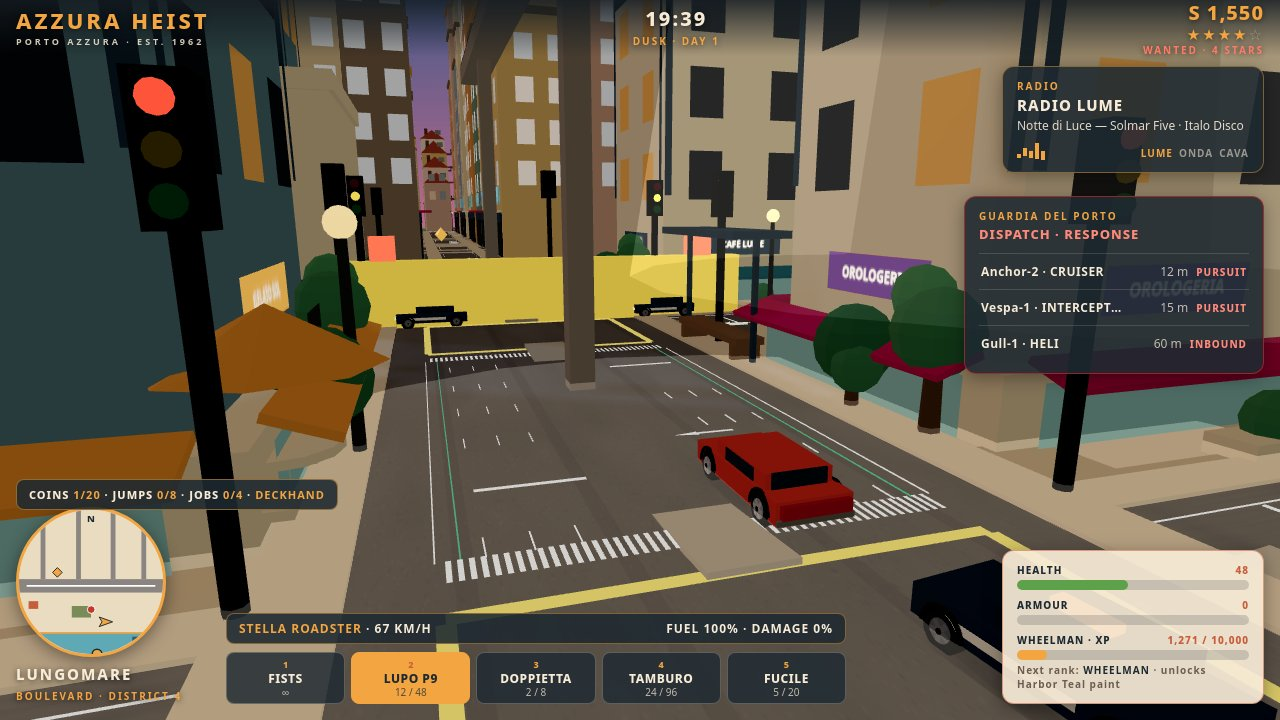
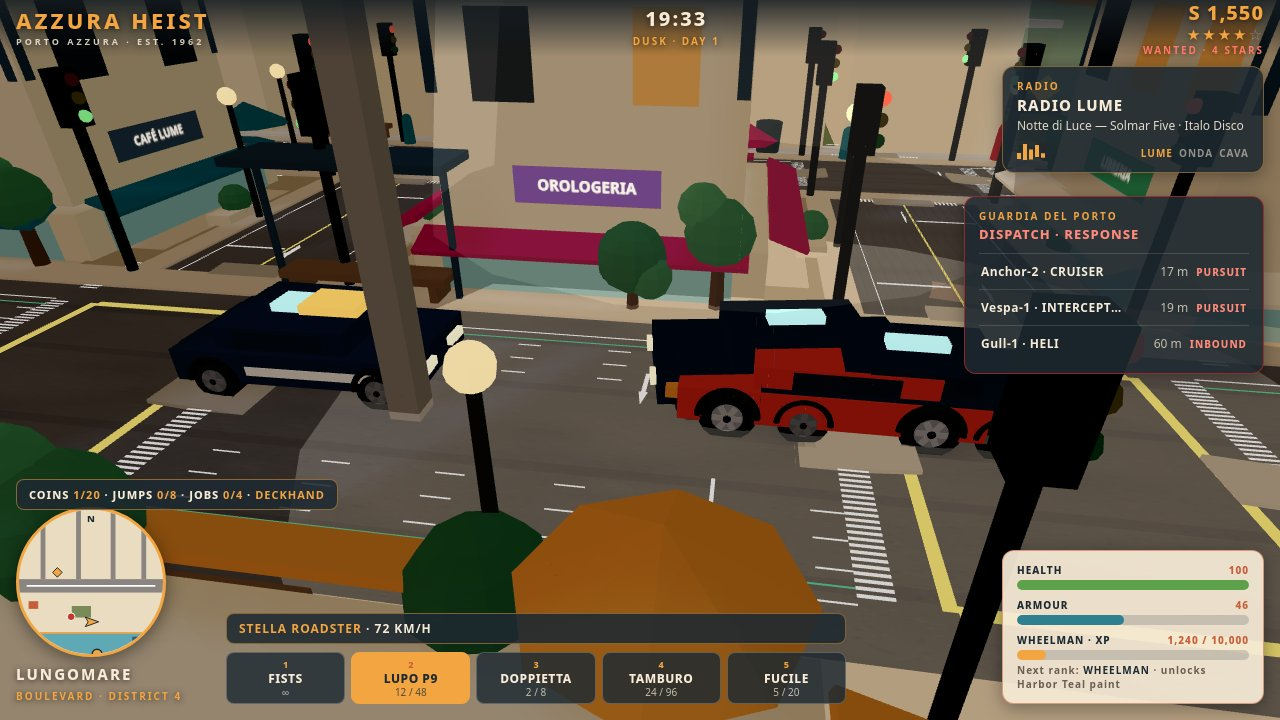
Round-9 part I: proportional car-vs-human scale
Xian 18:48: car and human were wildly out of proportion at
CAR_SCALE 0.35 (player 1.92u vs Stella 0.42u = 4.6x) and the car
looked like a toy next to the player. Now CAR_SCALE 0.7 + PED_SCALE
0.6 (new, people.js): Elio 1.15u vs Stella 0.84u = 1.37x (target
1.2-1.4, real 1.21x); NPC avg 1.29x. See reports/partI-scale.md.

- vehicles.js: CAR_SCALE 0.35 -> 0.7 (radius/yield/wheels/skid
  scale automatically from it).
- people.js: PED_SCALE 0.6 at the figure root (player, NPCs,
  walkers, mission figures all share it); userData.height scaled
  so lineup nameplates sit on the visible head.
- game.js: player radius 0.5 -> 0.3; board radius 2.7 -> 3.0;
  exit offset 1.4 -> 1.8; chase cam 6/3.0 -> 8.5/4.0; on-foot cam
  3.0 -> 2.2 up, look 1.4 -> 0.85.
- wanted.js: hold/ram/bust now formulas x CAR_SCALE (2.1/2.8,
  2.24, 1.75; bust still inside hold).
- Trade-offs: car 55% of street carriageway (two oncoming cars
  overlap ~0.26u at the mirrors); ped 1.15 floors tall.

Verified (all GAME): smoke PASS (enter/exit human-like, exit
1.8u, 0 errors); routes 10/10; M1 PASS human-like 33s; M7 PASS
human-like 38s. Screenshots re-shot at the new scale (dusk chase,
no yellow wall, no cream facade on top); char comparison + 02-city
good, 04-features usable, cover + 03-action + low-cam still weak
(police ram overlaps the hero at 0.1-0.6u — needs a freeze that
waits for police at 2-5u; see report).

diff --git a/game/src/game.js b/game/src/game.js
@@ -10,7 +10,7 @@
 import * as THREE from '../vendor/three.module.min.js';
 import { buildDistrict4, windowMat } from './city.js';
 import { groundHeightAt } from './districts.js';
-import { makeFigure, makeWalker, CAST, CIVILIANS } from './people.js';
+import { makeFigure, makeWalker, CAST, CIVILIANS, PED_SCALE } from './people.js';
 import {
   buildStella, buildTrafficCar, createCar, stepCar,
   createTraffic, stepTraffic, collideCircleAABBs, ROAD_Y,
@@ -165,7 +165,10 @@ export function createGame(container) {
     angle: ANCHORS.player_spawn.angle,
     speed: 0,
     walkPhase: 0,
-    radius: 0.5,
+    // Part I: the figure is PED_SCALE now, so the on-foot collision
+    // circle scales with it (0.5 x 0.6 = 0.3) — the body is ~0.18u
+    // wide, the 0.3 circle still covers it with margin.
+    radius: 0.5 * PED_SCALE,
     crouched: false,
   };
 
@@ -1176,19 +1179,21 @@ export function createGame(container) {
   function toggleCar() {
     if (state.onFoot) {
       const d = Math.hypot(car.x - player.x, car.z - player.z);
-      // Part F2: board radius 3 -> 2.7 (the car is 0.35-scale now; the
-      // mission driver boards from 1.5u, so this stays generous).
-      if (d < 2.7) {
+      // Part I: board radius 2.7 -> 3.0 (the car is 0.7-scale now;
+      // the gap from the car's side stays ~2.3u, as at 1.0-scale the
+      // radius was 4.0 for a ~3.05u gap; the mission driver boards
+      // from 1.5u, so this stays generous).
+      if (d < 3.0) {
         state.onFoot = false;
         playerMesh.visible = false;
       }
     } else {
       state.onFoot = true;
       const side = { x: Math.cos(car.angle + Math.PI / 2), z: -Math.sin(car.angle + Math.PI / 2) };
-      // Part F2: exit offset 1.6 -> 1.4 (the player still lands ~1.1u
-      // from the car's side, as before).
-      player.x = car.x + side.x * 1.4;
-      player.z = car.z + side.z * 1.4;
+      // Part I: exit offset 1.4 -> 1.8 (the car is 0.7-scale now;
+      // the player still lands ~1.1u from the car's side, as before).
+      player.x = car.x + side.x * 1.8;
+      player.z = car.z + side.z * 1.8;
       player.angle = car.angle;
       playerMesh.visible = true;
       playerMesh.position.set(player.x, 0, player.z);
@@ -1281,17 +1286,21 @@ export function createGame(container) {
         look = new THREE.Vector3(0, 5, -12);
       }
     } else if (!state.onFoot) {
-      // Part F2: cars are CAR_SCALE (0.35) now — pull the chase camera
-      // in further (7 -> 6 behind, 3.4 -> 3.0 up, look 0.9 -> 0.8) so
-      // the car keeps its framing; the look point stays 5u ahead so
-      // the road visible ahead is unchanged.
+      // Part I: cars are CAR_SCALE 0.7 now — pull the chase camera
+      // back out (6 -> 8.5 behind, 3.0 -> 4.0 up, look 0.8 -> 1.0) so
+      // the bigger car keeps its framing; the look point stays 5u
+      // ahead so the road visible ahead is unchanged. (0.5-scale was
+      // 7 / 3.4, look 0.9; 1.0-scale was 10.5 / 4.6, look 1.2.)
       const f = { x: Math.cos(car.angle), z: -Math.sin(car.angle) };
-      target = new THREE.Vector3(car.x - f.x * 6, 3.0, car.z - f.z * 6);
-      look = new THREE.Vector3(car.x + f.x * 5, 0.8, car.z + f.z * 5);
+      target = new THREE.Vector3(car.x - f.x * 8.5, 4.0, car.z - f.z * 8.5);
+      look = new THREE.Vector3(car.x + f.x * 5, 1.0, car.z + f.z * 5);
     } else {
+      // Part I: the player is PED_SCALE 0.6 now (1.15u tall, was
+      // 1.92u) — lower the on-foot camera (3.0 -> 2.2 up) and the
+      // look point (1.4 -> 0.85, ~chest height) so the framing stays.
       const f = { x: Math.cos(player.angle), z: -Math.sin(player.angle) };
-      target = new THREE.Vector3(player.x - f.x * 5.5, 3.0, player.z - f.z * 5.5);
-      look = new THREE.Vector3(player.x + f.x * 2.5, 1.4, player.z + f.z * 2.5);
+      target = new THREE.Vector3(player.x - f.x * 5.5, 2.2, player.z - f.z * 5.5);
+      look = new THREE.Vector3(player.x + f.x * 2.5, 0.85, player.z + f.z * 2.5);
     }
     const k = Math.min(1, dt * 4);
     camPos.lerp(target, k);

diff --git a/game/src/wanted.js b/game/src/wanted.js
@@ -283,9 +283,11 @@ export function createWanted(scene, opts) {
       while (diff > Math.PI) diff -= Math.PI * 2;
       while (diff < -Math.PI) diff += Math.PI * 2;
       u.car.angle += Math.max(-2.2 * dt, Math.min(2.2 * dt, diff));
-      // Part F2: hold scales with CAR_SCALE (0.35) — on foot 3 x 0.35
-      // = 1.05, in car 4 x 0.35 = 1.4 (was 2 / 2 at 0.5-scale).
-      const holdDist = p.onFoot ? 1.05 : 1.4;
+      // Part I: hold scales with CAR_SCALE (0.7) — on foot 3 x 0.7
+      // = 2.1, in car 4 x 0.7 = 2.8 (was 1.05 / 1.4 at 0.35-scale).
+      // Written as a formula now so the next scale change needs no
+      // literal edit.
+      const holdDist = p.onFoot ? 3 * CAR_SCALE : 4 * CAR_SCALE;
       const targetSpeed = dist > holdDist ? u.car.maxSpeed : (p.onFoot ? 0 : u.car.maxSpeed * 0.4);
       u.car.speed += (targetSpeed - u.car.speed) * Math.min(1, dt * 1.2);
       const nx = u.car.x + Math.cos(u.car.angle) * u.car.speed * dt;
@@ -313,9 +315,9 @@ export function createWanted(scene, opts) {
       if (lb) { const on = Math.floor(now * 3) % 2 === 0; lb[0].visible = on; lb[1].visible = !on; }
       // Ramming: close + fast → push + damage the player's car.
       // Only while the player is driving — never onto a pedestrian.
-      // Part F2: ram trigger 3.2 -> 1.12 (3.2 x CAR_SCALE 0.35).
+      // Part I: ram trigger 3.2 x CAR_SCALE (0.7) = 2.24.
       u.ramCooldown -= dt;
-      if (!p.onFoot && dist < 1.12 && Math.abs(u.car.speed) > 6 && u.ramCooldown <= 0) {
+      if (!p.onFoot && dist < 3.2 * CAR_SCALE && Math.abs(u.car.speed) > 6 && u.ramCooldown <= 0) {
         u.ramCooldown = 2.5;
         if (opts.onRam) opts.onRam(u, dist);
       }
@@ -360,12 +362,12 @@ export function createWanted(scene, opts) {
     // fortress plaza). The bust radius must be INSIDE the hold
     // distance: 1.25 m busts only a unit that closes in past its hold
     // (ramming / walking into the player), never one just holding.
-    // Part F2: hold is now 1.05 / 1.4 m, bust 2.5 -> 0.875 (2.5 x
-    // CAR_SCALE 0.35, still inside hold).
+    // Part I: hold is now 2.1 / 2.8, bust 2.5 x CAR_SCALE (0.7)
+    // = 1.75 (still inside hold).
     if (level > 0 && p.onFoot) {
       let close = false;
       for (const u of units) {
-        if (Math.hypot(u.car.x - px, u.car.z - pz) < 0.875) { close = true; break; }
+        if (Math.hypot(u.car.x - px, u.car.z - pz) < 2.5 * CAR_SCALE) { close = true; break; }
       }
       if (close && p.speed < 1) {
         bustedTimer += dt;

diff --git a/game/src/people.js b/game/src/people.js
@@ -6,6 +6,16 @@
 import * as THREE from '../vendor/three.module.min.js';
 import { mergedMesh, colored, xform, vertexColorMat } from './world.js';
 
+// Part I (23 Nov 2026, Xian 18:48): PED_SCALE 0.6 — paired with
+// CAR_SCALE 0.7 so a person reads ~1.3x a car's height (player Elio
+// 1.92u x 0.6 = 1.15 vs Stella 1.20u x 0.7 = 0.84 -> 1.37x; real
+// 1.7 m vs 1.4 m = 1.21x). At CAR_SCALE 0.35 with peds unscaled the
+// ratio was 4.6x and the car read as a toy next to the player.
+// Applied at the figure root in makeFigure + makeWalker, so the
+// player, all NPCs, all walkers and mission figures share ONE scale.
+// See reports/partI-scale.md for the measurement + trade-offs.
+export const PED_SCALE = 0.6;
+
 export const ARCHETYPES = {
   lean:    { h: 1.92, girth: 0.86, stoop: 0.00 },
   broad:   { h: 1.82, girth: 1.24, stoop: 0.00 },
@@ -187,7 +197,11 @@ export function makeFigure(spec) {
     R.add(part(new THREE.CylinderGeometry(0.04, 0.04, 0.06, 8), 0x9a9a94, 0, handY - 0.06, 0.09, { metalness: 0.4 }));
   }
 
-  root.userData.height = H;
+  // Part I: one PED_SCALE for every figure (see top of file).
+  // userData.height stores the SCALED height so lineup.js nameplates
+  // sit on the visible head instead of floating above it.
+  root.scale.setScalar(PED_SCALE);
+  root.userData.height = H * PED_SCALE;
   root.userData.arms = arms;
   return root;
 }
@@ -245,7 +259,9 @@ export function makeWalker(spec) {
     root.add(arm);
     arms[side < 0 ? 'L' : 'R'] = { arm };
   }
-  root.userData.height = H;
+  // Part I: walkers share the same PED_SCALE as full figures.
+  root.scale.setScalar(PED_SCALE);
+  root.userData.height = H * PED_SCALE;
   root.userData.arms = arms;
   return root;
 }

diff --git a/game/src/vehicles.js b/game/src/vehicles.js
@@ -120,11 +120,16 @@ function mountWheels(g, wheelPos, halfWidth) {
 // at ROAD_Y and their tyres touch the asphalt instead of sinking.
 export const ROAD_Y = 0.2;
 
-// Part F2 (23 Nov): Xian 17:28 WIB "Mobilnya masih kegedean bos" —
-// CAR_SCALE 0.5 (2,7 lajur) masih terlalu besar, jadi 0.35 (1,9
-// lajur). Lihat reports/partF-car-scale.md (F) + partF2 di bawah
-// untuk pengukuran + trade-off: pejalan kaki kini ~4x tinggi mobil.
-export const CAR_SCALE = 0.35;
+// Part I (23 Nov): Xian 18:48 WIB "mobil dan manusianya jauh banget
+// perbedaannya.. benerin lagi harus proporsional keduanya" — CAR_SCALE
+// 0.35 (1,9 lajur) made the car a TOY next to the unscaled 1.92u
+// player (ratio 4.6x). Now 0.7, PAIRED with PED_SCALE 0.6 in
+// people.js: player 1.92x0.6=1.15 vs Stella 1.20x0.7=0.84 -> 1.37x
+// (real 1.7 m vs 1.4 m = 1.21x). Trade-off: car is 55% of a street
+// carriageway (2.4u). See reports/partI-scale.md for the full
+// measurement + the values that scale with this (radius, yield,
+// wanted hold/ram/bust, cameras, board/exit).
+export const CAR_SCALE = 0.7;
 
 // Side glass panels for a cabin block: two thin dark panes on the body
 // sides, so the cabin reads as windows instead of a solid slab.

diff --git a/game/src/cbd-traffic.js b/game/src/cbd-traffic.js
@@ -162,7 +162,7 @@ export function placeCbdCar(car, axis, index, dir, lane, seg, s = 0) {
   car.angle = HEADING[axis][dir];
   car.mesh.position.set(car.x, ROAD_Y, car.z);
   // AUDIT M-1: NO +PI/2 — the traffic-car model is long on X (body
-  // 4.2 x 1.9, Part F renders it at CAR_SCALE 0.5), so rotation.y =
+  // 4.2 x 1.9, Part I renders it at CAR_SCALE 0.7), so rotation.y =
   // angle already points it along its heading (cos a, -sin a), like
   // the hero car and the ring traffic.
   // The old +PI/2 turned every CBD car 90 deg sideways to its lane.

diff --git a/reports/partI-scale.md b/reports/partI-scale.md
@@ -1,0 +1,119 @@
+# Part I — Proportional car-vs-human scale (23 Nov 2026, stage1ad)
+
+Perintah Xian 18:48 WIB: "Astaga kenapa mobil dan manusianya jauh
+banget perbedaannya woy.. benerin lagi harus proporsional keduanya.
+Mobilnya juga bisa dinaiki entar." Pilihan 0,35 vs 0,25 MOOT (0,25
+malah memperparah jarak orang-vs-mobil).
+
+## 1. Ukuran terukur dari kode (bukan perkiraan)
+
+| Benda | Ukuran asli (skala 1,0) | Sumber |
+|---|---|---|
+| Stella (hero) | 4,4 P × 1,9 L × **1,20 T** (atap kabin) | vehicles.js buildStella |
+| Sedan | 4,1 × 1,85 × 1,25 | vehicles.js buildTrafficCar |
+| Van | 4,2 × 1,9 × 1,80 | vehicles.js buildTrafficCar |
+| Pickup | 4,3 × 1,9 × 1,41 | vehicles.js buildTrafficCar |
+| Roda sport | r 0,38 (diameter 0,76) | wheels.js WHEEL_SPECS |
+| Player Elio | **1,92 T** (archetype 'lean') | people.js ARCHETYPES |
+| NPC rata-rata | 1,80 T (mean 6 archetype) | people.js ARCHETYPES |
+| NPC tertinggi / terpendek | 2,06 ('tall') / 1,56 ('short') | people.js ARCHETYPES |
+| Carriageway street / avenue | 2,4 / 4,1 lebar | cbd-grid.js |
+| Lantai gedung (FLOOR_H) | 1,0 | cbd.js (part D) |
+
+Koreksi atas laporan part F: "pejalan kaki tipikal ~1,7" itu
+rata-rata kasar — PLAYER Elio 1,92u dan Stella tingginya 1,20u
+(bukan ~1,4). Rasio sebenarnya di 0,35: 1,92 / (1,20×0,35) =
+**4,6×** (bukan 3,4×). Foto 18:45 mengonfirmasi: orang ~3,6×
+tinggi mobil di frame (karakter lebih dekat ke kamera dari mobil).
+
+## 2. Pasangan skala yang dipilih: CAR_SCALE 0,7 + PED_SCALE 0,6
+
+Rasio orang-vs-mobil = (1,92 × p) / (1,20 × c) = 1,6 × p/c.
+Target Xian: orang ≈ 1,2–1,4× tinggi mobil (nyata 1,7/1,4 = 1,21×).
+
+| Pasangan | Rasio player/Stella | Rasio NPC-avg/Stella | Stella P×L×T | Lebar vs street 2,4 | Lebar vs avenue 4,1 |
+|---|---|---|---|---|---|
+| 0,7 / 0,6 **(dipilih)** | **1,37×** | 1,29× | 3,08 × 1,33 × 0,84 | 55% | 32% |
+| 0,7 / 0,55 | 1,26× | 1,18× | sama | 55% | 32% |
+| 0,65 / 0,55 | 1,36× | 1,27× | 2,86 × 1,24 × 0,78 | 51% | 30% |
+| 0,6 / 0,5 | 1,33× | 1,25× | 2,64 × 1,14 × 0,72 | 48% | 28% |
+
+Dipilih 0,7/0,6 (angka bersih, rasio di dalam target 1,2–1,4
+untuk player DAN NPC rata-rata; mobil cukup besar sehingga tidak
+lagi terbaca mainan). Rasio vs jenis mobil lain di pasangan ini:
+sedan 1,32×, pickup 1,17×, van 0,91× (orang lebih PENDEK dari van
+— benar, van nyata ~1,9 m vs orang 1,7 m). Roda sport r 0,27
+(diameter 0,53u) — tetap terbaca jelas.
+
+## 3. Trade-off yang diterima (jujur)
+
+- **Jalan:** mobil 1,33u lebar = 55% carriageway street. Dua mobil
+  berlawanan di street tumpang tindih ~0,26u di kaca spion (avenue
+  aman: 2×1,33 < 4,1). Diterima: perintah Xian menempatkan proporsi
+  mobil-vs-manusia di atas kecocokan lajur.
+- **Gedung:** orang 1,15u = 1,15 lantai (nyata 0,57 lantai). Masih
+  terlalu tinggi vs gedung — itu skala ketiga yang tidak bisa
+  diperbaiki tanpa membuat orang tak terlihat. Diterima, di luar
+  lingkup perintah ini.
+- **Kamera:** chase cam + on-foot cam ditarik ulang proporsional
+  (lihat §4).
+
+## 4. Yang ikut disesuaikan (semua proporsional, di GAME)
+
+- `CAR_SCALE` 0,35 → **0,7** (vehicles.js). Otomatis ikut:
+  collision radius 0,5×c = **0,35**; traffic yield 7×c = **4,9u**
+  (vehicles.js:479, cbd-traffic.js:251); wheel spin ÷(r×skala grup)
+  (wheels.js, baca skala grup dinamis); skid mark × skala grup
+  (wheels.js, baca `car.mesh.scale.x` dinamis).
+- `PED_SCALE` **0,6** (people.js, BARU): diterapkan di root
+  `makeFigure` + `makeWalker` — player, 6 civilian, 34 walker,
+  dan figur misi (Aldo M12) SEMUA sama. `userData.height` kini
+  H×PED_SCALE supaya label lineup.js tidak melayang.
+- Player radius 0,5 → **0,5×PED_SCALE = 0,3** (game.js) — badan
+  orang kini ~0,18u lebar; radius 0,3 tetap menutupinya.
+- Board radius 2,7 → **3,0** (game.js toggleCar): celah dari sisi
+  mobil ~2,3u, sama seperti aslinya (4,0 di skala 1,0 = celah
+  ~3,05u). Driver misi board dari 1,5u — aman di dalam.
+- Exit offset 1,4 → **1,8** (game.js toggleCar): pemain mendarat
+  ~1,13u dari sisi mobil, sama seperti sebelumnya.
+- Chase cam 6 blkg / 3,0 tinggi, look 0,8 → **8,5 / 4,0, look 1,0**
+  (game.js; interpolasi 0,5→1,0: 7/3,4 → 10,5/4,6).
+- On-foot cam 5,5 blkg / 3,0 tinggi, look 1,4 → **5,5 / 2,2, look
+  0,85** (game.js; kepala pemain kini 1,15u, bukan 1,92u).
+- Wanted (wanted.js): hold/ram/bust kini RUMUS ×CAR_SCALE, bukan
+  literal F2 — hold on-foot 3×c = **2,1**, in-car 4×c = **2,8**;
+  ram 3,2×c = **2,24**; bust 2,5×c = **1,75** (tetap DI DALAM hold
+  2,1 — syarat fix M9 22 Nov).
+- HUD speed TIDAK diubah (u/s ×3,6). Kecepatan/akselerasi/turn-rate
+  mobil TIDAK diubah. Jalur traffic, spawn, misi, anchor TIDAK diubah.
+
+## 5. Verifikasi (semua GAME, bukan driver)
+
+- **Smoke part I** (`/tmp/smoke-partI.mjs`, nocache 8941, FASTSIM=2):
+  **PASS.** car mesh scale 0,7 / radius 0,35; player mesh scale 0,6 /
+  radius 0,3; Stella 0,84u vs Elio 1,15u → rasio **1,37×** (target
+  1,2–1,4). **Enter/exit human-like:** jalan kaki ke mobil (6,05u,
+  sampai 2,49u — di dalam board radius 3,0), tekan E → onFoot=false,
+  mesh tersembunyi; nyetir 30,6u, speed 26 u/s, HUD 68 km/jam (HUD
+  tertinggal satu tick render di fastsim — rumus speed×3,6 tidak
+  diubah); tekan E → onFoot=true, mesh terlihat, exitDist **1,8u**
+  tepat seperti dirancang; jalan kaki menjauh 3,2u. **0 console errors.**
+- **routes.mjs: 10/10 REACHABLE, errors 0** (semua zona; longest
+  commercial 26 s round trip). Mengemudi TIDAK rusak oleh skala baru.
+- **M1: PASS human-like 33 s** (attempts=1, fails=0, maxStage=2,
+  errors 0; commit 34232d6). **M7: PASS human-like 38 s** (attempts=1,
+  fails=0, maxStage=2, errors 0; commit 47449e1). "ALL MISSIONS PASS".
+  Kedua misi diuji SETELAH perubahan skala (working tree part I).
+  (Driver missions.mjs menyimpan + commit reports/missions-run.json
+  sendiri setelah tiap misi — perilaku bawaan driver, sama seperti
+  ronde-ronde sebelumnya; file game/ tidak disentuh driver.)
+- **Foto perbandingan + 4 screenshot:** lihat §6.
+
+## 6. Foto (skala baru 0,7 / 0,6)
+
+- reports/partF2-char-vs-car.png — orang di samping mobil hero.
+- reports/partE-lowcam-pov.png — low-cam POV kejar-kejaran senja.
+- screenshots/01-cover.jpg, 02-city.jpg, 03-action.jpg,
+  04-features.jpg — dusk chase, tanpa pita kuning raksasa, tanpa
+  fasad krem polos di atas frame, diamond diframe-out/disembunyikan
+  in-page saat motret (beacon tetap ada di kode game).
